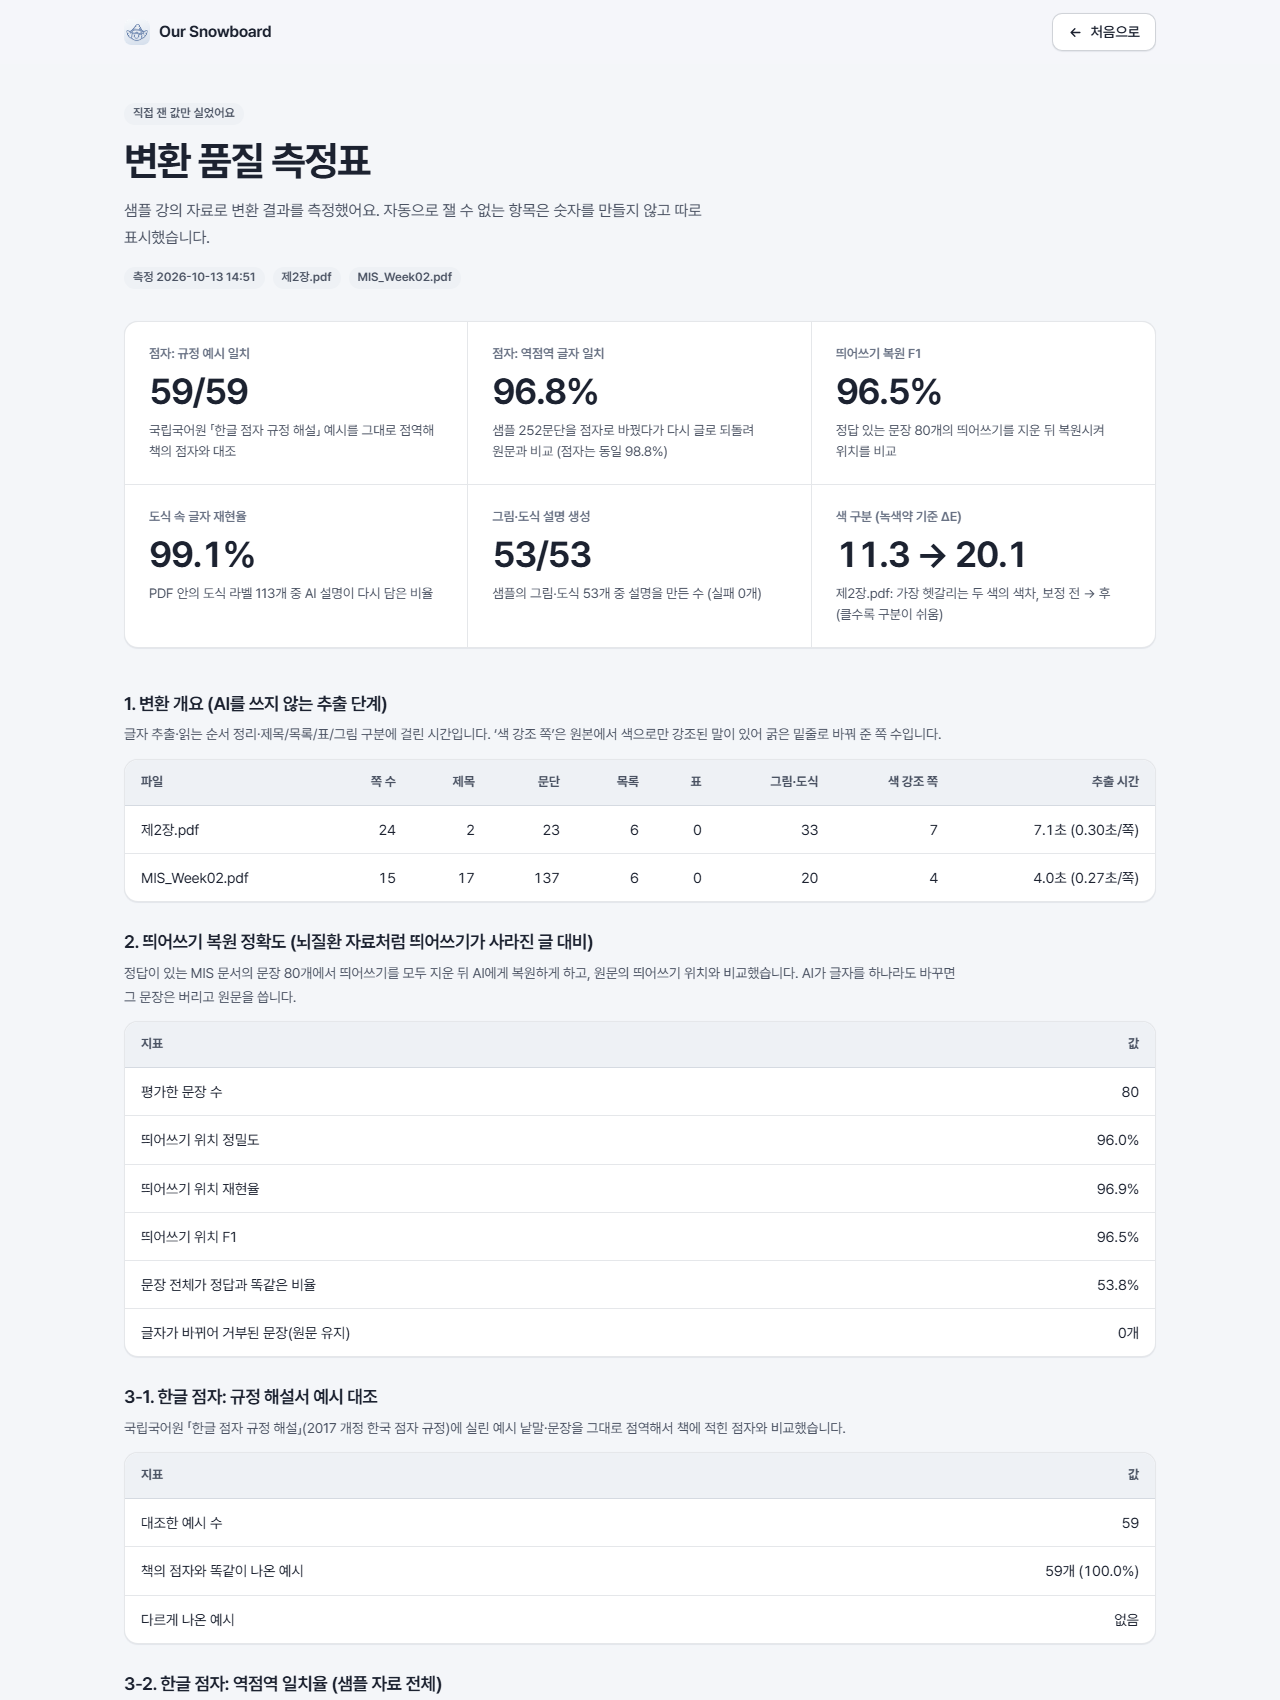
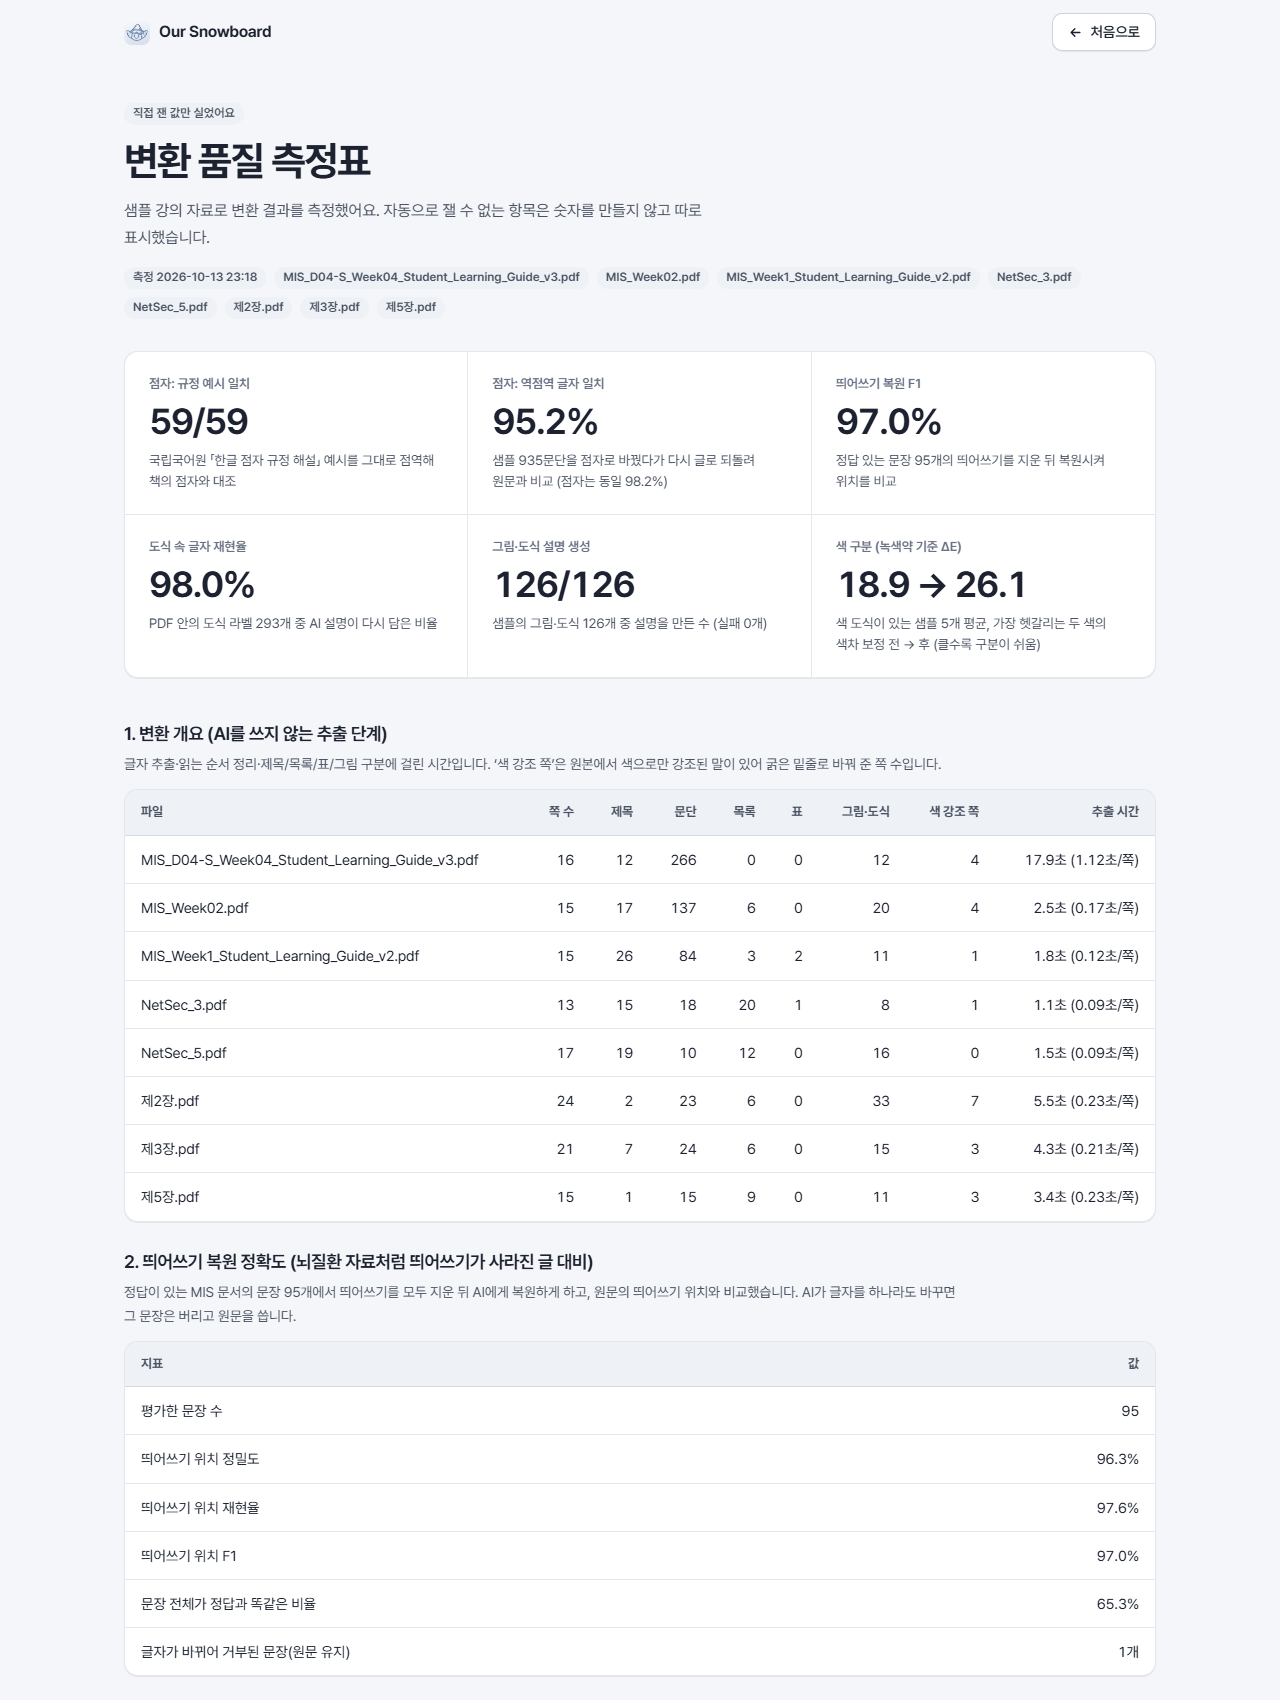
README에 실제 화면 캡처와 변환 결과 예시, 품질 측정표 추가

diff --git a/docs/make_shots.py b/docs/make_shots.py
@@ -15,7 +15,7 @@ BASE = "http://localhost:8790"
 SHOTS = [
     ("01_home", "/", 1280, 2300),
     ("02_home_panel", "/?demo=1", 1280, 900),
-    ("03_mock_course", "/mock?ext=1", 900, 260),
+    ("03_mock_course", "/mock?ext=1", 1000, 600),
     ("04_quality", "/quality", 1280, 1700),
     ("05_popup", "/ext/popup.html", 340, 300),
     ("06_mobile_home", ("iframe", "/", 390, 844), 700, 880),

diff --git a/README.md b/README.md
@@ -13,6 +13,92 @@ pinned: false
 숙명여대 스노우보드의 PDF 자료 옆에 **다운로드** 버튼이 생기는 크롬 확장 프로그램과, 내 컴퓨터에서 도는 변환 서버입니다.
 버튼을 누르면 스노우보드 화면 위에 작은 창이 떠서, 변환 방식을 체크박스로 고르고 **다운로드**하면 바뀐 교재(원본 PDF에 접근성을 더한 파일, 선택하면 읽기용 PDF·웹 문서 `.html`, 선택하면 점자 `.brf`)가 내려옵니다. 새 탭이나 별도 웹사이트는 없습니다.
 
+# Our Snowboard
+
+> 모든 사람이 스노우보드를 잘 이용할 수 있도록.
+
+숙명여대 스노우보드의 PDF 자료 옆에 **다운로드** 버튼이 생기는 크롬 확장 프로그램과, 내 컴퓨터에서 도는 변환 서버입니다.
+버튼을 누르면 스노우보드 화면 위에 작은 창이 떠서, 필요한 방식을 고르고 **다운로드**하면 바뀐 교재(원본 PDF에 접근성을 더한 파일, 선택하면 읽기용 웹 문서 `.html`, 선택하면 점자 `.brf`)가 내려옵니다. 새 탭이나 별도 웹사이트는 없습니다.
+
+![홈 화면](docs/shots/01_home.png)
+
+## 왜 만들었나
+
+같은 PDF인데 모두에게 읽히지는 않습니다.
+
+- 그림 안의 이름표는 이미지 속 글자라 스크린리더가 건너뜁니다.
+- 빨강·초록으로만 구분한 도식은 색각 이상이면 같은 색으로 보입니다.
+- 빨간 글씨로만 한 강조는 색을 구분하지 못하면 사라집니다.
+- 한국어 전문 용어는 외국인 학생에게 벽입니다.
+- 점역에는 2주~한 달이 걸립니다 (뉴시스 2026.1).
+
+스노우보드에서 학생이 직접 쓸 수 있는 변환 기능은 확인되지 않았습니다. Our Snowboard는 학교 서버를 고치지 않고 학생 쪽 브라우저에서 이 틈을 메웁니다. 특정 집단을 정하지 않고, 필요한 사람이 필요한 것만 골라 씁니다.
+
+## 이렇게 씁니다
+
+**1. 자료 옆에 버튼이 생깁니다.** 스노우보드 강의 화면의 PDF·PowerPoint 옆에 **다운로드** 버튼이, 위쪽에는 안내 띠가, 오른쪽 아래에는 마스코트와 함께 처음 쓸 때 방식을 정하는 작은 안내가 나타납니다. (개발용 모의 화면 `/mock?ext=1`)
+
+![강의 목록에 붙은 다운로드 버튼](docs/shots/03_mock_course.png)
+
+**2. 필요한 방식을 고릅니다.** 버튼을 누르면 변환 창이 뜹니다. 방식은 프리셋 중에서 고르거나 **직접 설정**으로 항목을 하나씩 고릅니다. 받는 형식(PDF·웹 문서·점자)은 오른쪽 위에서 바꿉니다.
+
+![변환 창](docs/deck/assets/panel.png)
+
+| 프리셋 | 하는 일 |
+|---|---|
+| 그림 읽기·점자 | 그림을 글로 설명하고 점자 파일(`.brf`)도 받음 (AI) |
+| 저시력 | 큰 글씨와 검정 바탕으로 바꾸고, 소리 내어 읽어 줌 |
+| 색각 이상 | 색이 칠해진 도식에 색 보정과 무늬를 넣음 |
+| 교환학생 | 어려운 단어와 전문 용어에 쉬운 말·영어를 붙임 (AI) |
+| 직접 설정 | 원하는 항목을 직접 골라 저장 |
+
+툴바의 확장 아이콘을 누르면 서버 연결 상태를 볼 수 있습니다.
+
+![확장 프로그램 팝업](docs/shots/05_popup.png)
+
+**3. 내려받습니다.** 체크한 항목만 처리해서 받습니다. 확장 프로그램 없이도 `http://localhost:8790` 에서 PDF를 직접 올릴 수 있습니다(보조 기능).
+
+## 변환 결과 예시
+
+**스크린리더가 건너뛰던 그림 속 글자를 글로 읽게 합니다.** 아래 그림은 "현대인의 뇌질환" 7장 강의자료 9쪽의 일부입니다. 이름표까지 이미지라서 그대로는 읽히지 않습니다.
+
+![원본 그림](docs/deck/assets/fig_p9.png)
+
+변환하면 그림 자리에 이런 설명이 들어갑니다. (AI, 원본 PDF에서는 보이지 않는 글자 + 보충 쪽)
+
+> 뇌의 세로토닌 계와 노르에피네프린 계 신경 경로를 나란히 비교한 그림입니다. 왼쪽의 세로토닌 계는 뇌간의 봉선핵(솔기핵)에서 시작해 신피질, 기저핵, 시상, 시상하부, 측두엽, 소뇌와 척수 등으로 뻗습니다. …
+
+띄어쓰기가 사라진 글도 복원합니다: `신경관형성은복합적인과정으로…` → `신경관 형성은 복합적인 과정으로 …`
+
+**색으로만 구분된 도식을 구분되게 바꿉니다.** 녹색약이 보는 원본에서는 두 색이 거의 같지만, 변환본은 색을 보정하고 같은 색에 같은 무늬를 얹습니다. (AI 없이 규칙으로 처리, 사진처럼 색이 번지는 그림은 건드리지 않음)
+
+| 원본 | 녹색약이 보는 원본 | 녹색약이 보는 변환본 |
+|---|---|---|
+| ![원본](docs/deck/assets/cb_orig.png) | ![녹색약 시뮬레이션](docs/deck/assets/cb_sim.png) | ![변환본](docs/deck/assets/cb_fixed.png) |
+
+**어려운 말과 작은 글씨도 내 방식으로.** 읽기용 웹 문서는 어려운 단어 옆에 쉬운 뜻과 영어를 함께 보여 주고, 고대비·큰 글씨·소리 내어 읽기를 지원합니다.
+
+| 웹 문서 | 고대비 |
+|---|---|
+| ![웹 문서](docs/deck/assets/web_norm.png) | ![고대비 웹 문서](docs/deck/assets/web_hc.png) |
+
+**점자.** 한글 점자 `.brf`로 받아 점자 프린터에 출력할 수 있습니다. 예: `뇌간 망상계의 핵을 이루며 …` → `⠉⠽⠫⠒ ⠑⠶⠇⠶⠈⠌⠺ ⠚⠗⠁⠮ …` (다시 글로 되돌리면 원문과 일치)
+
+## 품질은 숫자로 확인했습니다
+
+샘플 강의자료 8개로 직접 재서 `http://localhost:8790/quality` 에 표로 보여 줍니다. 자동으로 잴 수 없는 항목은 숫자를 만들지 않고 따로 표시합니다.
+
+![변환 품질 측정표](docs/shots/04_quality.png)
+
+| 항목 | 결과 |
+|---|---|
+| 점자: 규정 해설서 예시 | 59/59 일치 |
+| 점자: 다시 글로 되돌려 원문과 비교 | 95.2% |
+| 띄어쓰기 복원 F1 | 97.0% |
+| 도식 속 글자 재현율 | 98.0% |
+| 그림·도식 설명 생성 | 126/126 (실패 0) |
+| 색 구분 (녹색약 기준 ΔE) | 18.9 → 26.1 |
+
 ## 실행하기
 
 1. `.env.example` 을 `.env` 로 복사하고 `GATEWAY_API_KEY=` 뒤에 학교 AI API 키를 넣는다. (BAZE → API Gateway → API 키 생성. 키는 채팅·코드·커밋에 남기지 않는다.)
